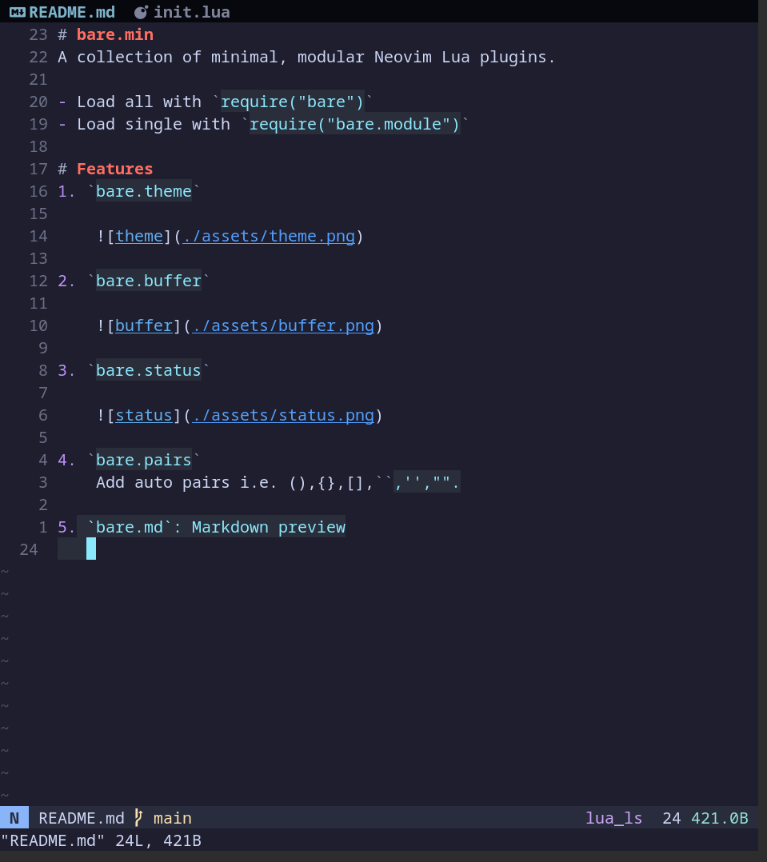
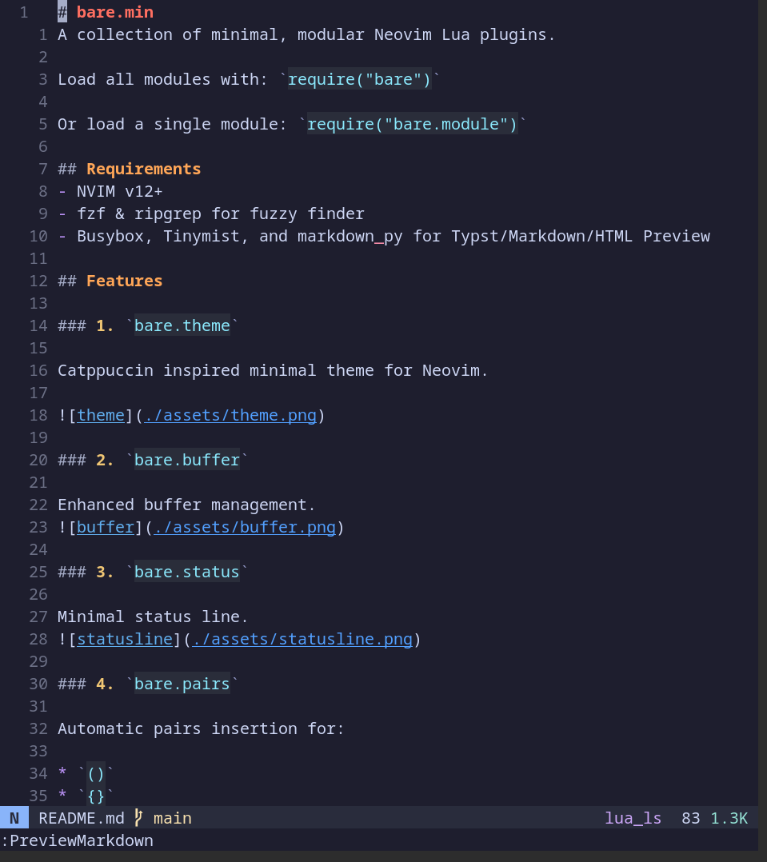
add picker

diff --git a/README.md b/README.md
@@ -8,7 +8,7 @@ Or load a single module: `require("bare.module")`
 ## Requirements
 - NVIM v12+
 - fzf & ripgrep for fuzzy finder
-- Busybox, Tinymist, and markdown_py for Typst/Markdown/HTML Preview
+- Busybox, Tinymist, and grip for Typst/Markdown/HTML Preview
 
 ## Features
 
@@ -26,7 +26,7 @@ Enhanced buffer management.
 ### 3. `bare.status`
 
 Minimal status line.
-![status](./assets/status.png)
+![statusline](./assets/statusline.png)
 
 ### 4. `bare.pairs`
 
@@ -81,3 +81,14 @@ Paste/Delete images from clipboard into markdown/typst files.
 
 Preview HTML, Markdown and Typst files in browser.
 
+### 14. `bare.netrw`
+
+Short config for better netrw
+
+![netrw](./assets/netrw.png)
+
+### 15. `bare.picker`
+
+Wildmenu auto trigger and file picker with find
+
+![picker](./assets/picker.png)
